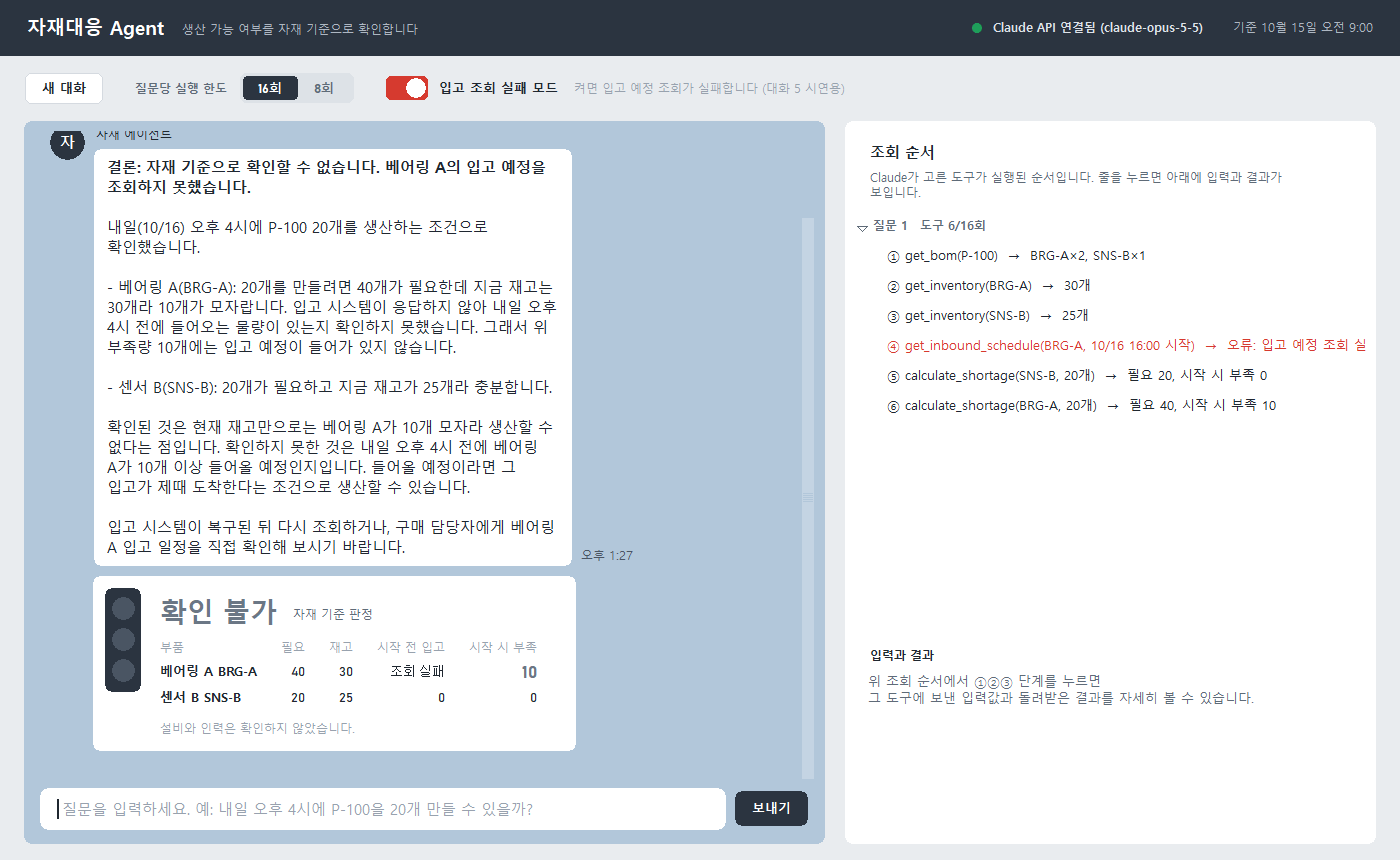
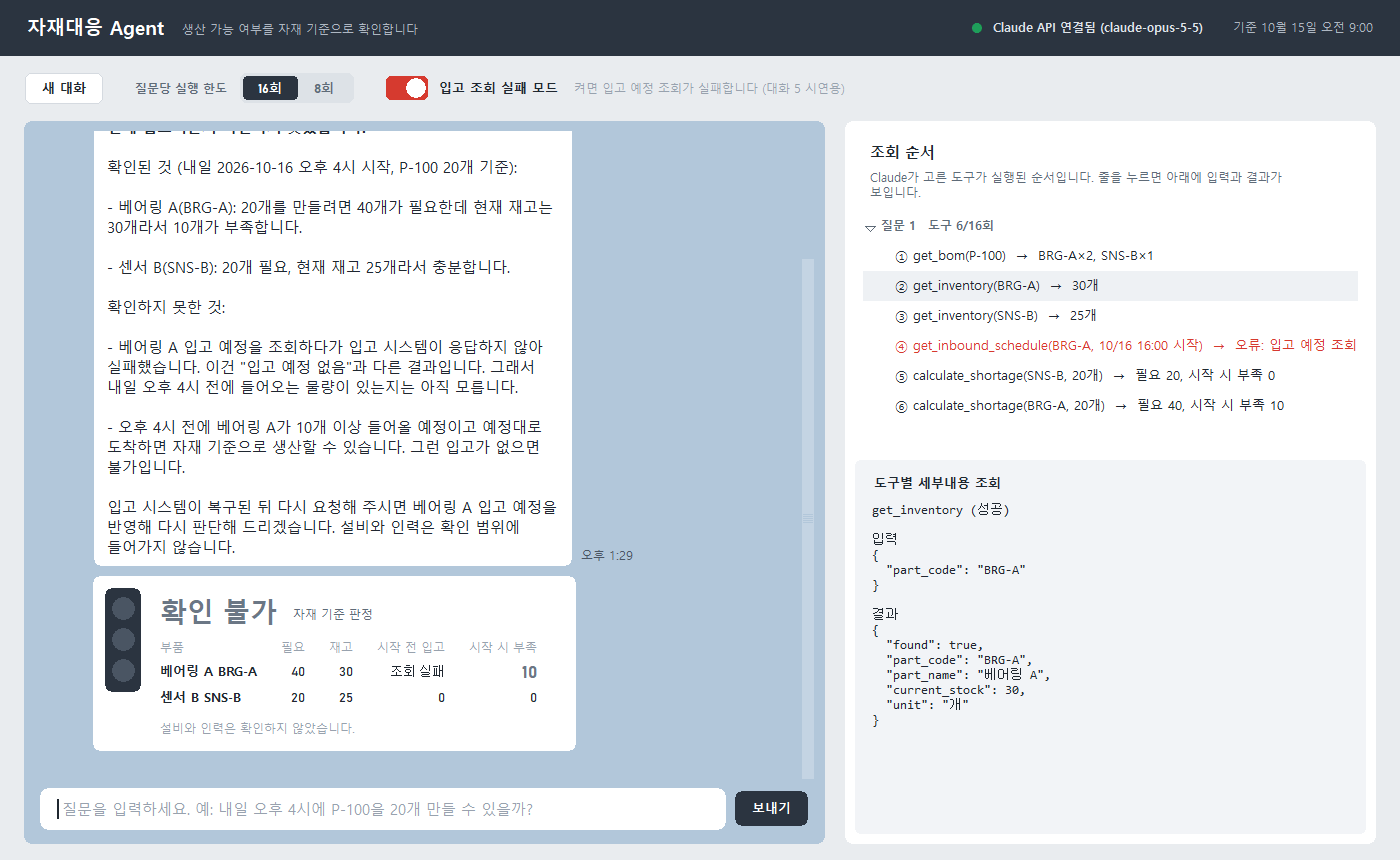
feat: separate tool detail region

diff --git a/app.py b/app.py
@@ -36,6 +36,7 @@ STATUS_STYLE = {  # 판정: (켜는 등, 글자색)
     "불가": ("red", ANDON["red"]),
     "확인 불가": (None, "#6B7785"),
 }
+DETAIL_BG = "#F2F4F7"     # 도구별 세부내용 영역 바탕
 CHAT_BG = "#B2C7DA"       # 카카오톡 대화방 배경
 USER_BUBBLE = "#FEE500"   # 내 말풍선
 AGENT_BUBBLE = "#FFFFFF"  # 상대 말풍선
@@ -391,7 +392,8 @@ class MaterialApp(tk.Frame):
         # 스크롤바: Tk는 투명도를 지원하지 않으므로 막대를 배경과 거의 같은 옅은 색·좁은 폭으로 그려
         # 투명해 보이게 하고, 마우스를 올렸을 때만 진하게 한다. (흰 영역용 Slim, 하늘색 대화창용 Chat)
         for name, trough, thumb, active in (("Slim.Vertical.TScrollbar", SURFACE, "#E8EBEF", "#B9C1CA"),
-                                            ("Chat.Vertical.TScrollbar", CHAT_BG, "#C4D4E3", "#8FA9C2")):
+                                            ("Chat.Vertical.TScrollbar", CHAT_BG, "#C4D4E3", "#8FA9C2"),
+                                            ("Soft.Vertical.TScrollbar", DETAIL_BG, "#DDE2E8", "#B9C1CA")):
             style.layout(name, [("Vertical.Scrollbar.trough", {"sticky": "ns", "children": [
                 ("Vertical.Scrollbar.thumb", {"expand": "1", "sticky": "nswe"})]})])
             style.configure(name, troughcolor=trough, background=thumb, bordercolor=trough,
@@ -497,7 +499,7 @@ class MaterialApp(tk.Frame):
         self.right_panes = tk.PanedWindow(right, orient="vertical", bg=SURFACE, bd=0, sashwidth=14,
                                           sashrelief="flat", sashcursor="sb_v_double_arrow", showhandle=False)
         self.right_panes.pack(fill="both", expand=True)
-        tree_box = tk.Frame(self.right_panes, bg=SURFACE)
+        tree_box = tk.Frame(self.right_panes, bg=SURFACE, padx=8)  # 아래 세부내용 영역 안쪽 여백과 스크롤바 위치를 맞춘다
         self.right_panes.add(tree_box, minsize=120, stretch="always", height=380)
         self.tool_tree = ttk.Treeview(tree_box, show="tree", selectmode="browse", style="Trace.Treeview")
         tree_scroll = ttk.Scrollbar(tree_box, command=self.tool_tree.yview, style="Slim.Vertical.TScrollbar")
@@ -507,15 +509,19 @@ class MaterialApp(tk.Frame):
         self.tool_tree.tag_configure("group", font=f.small_bold, foreground=MUTED)
         self.tool_tree.bind("<<TreeviewSelect>>", lambda _e: self._show_detail())
 
-        detail_box = tk.Frame(self.right_panes, bg=SURFACE)
-        self.right_panes.add(detail_box, minsize=100, stretch="always")
-        tk.Label(detail_box, text="입력과 결과", bg=SURFACE, fg=TEXT, font=f.small_bold).pack(anchor="w", padx=12)
-        detail_row = tk.Frame(detail_box, bg=SURFACE)
+        # 도구별 세부내용: 연한 회색 둥근 바탕으로 조회 순서와 구분되는 별도 영역
+        self.detail_panel = RoundPanel(self.right_panes, fill=DETAIL_BG, bg=SURFACE, radius=14, pad=8)
+        self.right_panes.add(self.detail_panel, minsize=110, stretch="always")
+        detail_box = self.detail_panel.inner
+        self.detail_title = tk.Label(detail_box, text="도구별 세부내용 조회", bg=DETAIL_BG, fg=TEXT,
+                                     font=f.body_bold)
+        self.detail_title.pack(anchor="w", padx=8, pady=(4, 2))
+        detail_row = tk.Frame(detail_box, bg=DETAIL_BG)
         detail_row.pack(fill="both", expand=True)
-        self.detail = tk.Text(detail_row, wrap="none", font=f.mono, height=9, state="disabled", bg=SURFACE,
-                              fg=TEXT, relief="flat", padx=12, pady=6, highlightthickness=0)
+        self.detail = tk.Text(detail_row, wrap="none", font=f.mono, height=9, state="disabled", bg=DETAIL_BG,
+                              fg=TEXT, relief="flat", padx=8, pady=4, highlightthickness=0)
         self.detail_scroll = ttk.Scrollbar(detail_row, orient="vertical", command=self.detail.yview,
-                                           style="Slim.Vertical.TScrollbar")
+                                           style="Soft.Vertical.TScrollbar")
         self.detail.pack(side="left", fill="both", expand=True)
         self.detail.configure(yscrollcommand=_autohide(self.detail_scroll, self.detail))
         self._show_hint()

diff --git a/tests/test_app.py b/tests/test_app.py
@@ -376,3 +376,11 @@ def test_detail_hint_explains_clicking_a_step(root):
     assert "hint" in app.detail.tag_names("1.0")  # 안내문은 본문 글꼴(①②③이 깨지지 않게)
     app.new_conversation()
     assert app.detail.get("1.0", "end").strip() == app_module.DETAIL_HINT
+
+
+def test_detail_area_is_separate_region(root):
+    import app as app_module
+    app = make_app(root, FakeAgent())
+    assert app.detail_title["text"] == "도구별 세부내용 조회"
+    assert app.detail_panel.is_rounded and app.detail_panel.fill == app_module.DETAIL_BG
+    assert app.detail["bg"] == app_module.DETAIL_BG != app_module.SURFACE

diff --git a/process.md b/process.md
@@ -21,3 +21,4 @@
 | 2026-10-15 | feat: resizable trace/detail split and faint scrollbars | 오른쪽 조회 순서와 입력·결과 원문 사이 경계선을 끌어 높이 조절, 원문 칸에 세로 스크롤바 추가(내용이 많으면 잘리던 문제). 대화창·조회 순서·원문의 스크롤바를 배경과 거의 같은 옅은 색·좁은 폭으로 바꾸고 마우스를 올리면 진해지게 함(대화창은 하늘색 배경용 색). 조회 순서와 원문 스크롤바를 오른쪽 끝 같은 위치로 정렬. README 스크린샷 갱신. 테스트 98개 통과 |
 | 2026-10-15 | feat: rounded commercial-grade UI polish | 직각 상자·회색 테두리·이중 상자를 없애고 둥근 부품으로 통일: 대화·조회 패널(둥근 바탕, 테두리 없음), 둥근 버튼(새 대화·보내기), 알약형 실행 한도 선택(16회/8회), 입고 조회 실패 모드 스위치, 둥근 입력창, 둥근 안돈 카드와 신호등 기둥, 둥근 프로필. 조회 목록 자체 테두리 제거, 높이 조절 경계는 회색 막대 대신 여백. 스크롤바는 내용이 넘칠 때만 표시. 화면 캡처는 앱 창만 그려 저장하도록 변경(화면 보안 워터마크가 찍히지 않게). README 스크린샷 갱신. 테스트 104개 통과 |
 | 2026-10-15 | feat: clearer detail hint text | 입력·결과 원문 칸 안내문을 "위 조회 순서에서 ①②③ 단계를 누르면 그 도구에 보낸 입력값과 돌려받은 결과를 자세히 볼 수 있습니다."로 변경, 안내문은 본문 글꼴(10pt, 옅은 회색)로 표시해 ①②③이 깨지지 않게 함. 입력·결과 원문 글자 9pt→10pt. README 스크린샷 갱신. 테스트 105개 통과 |
+| 2026-10-15 | feat: separate tool detail region | 세부내용 영역 제목을 "도구별 세부내용 조회"로 변경하고, 연한 회색(#F2F4F7) 둥근 바탕의 별도 영역으로 조회 순서와 구분. 영역 바탕에 맞춘 옅은 스크롤바, 조회 순서와 스크롤바 위치 정렬 유지. README 스크린샷 갱신. 테스트 106개 통과 |
